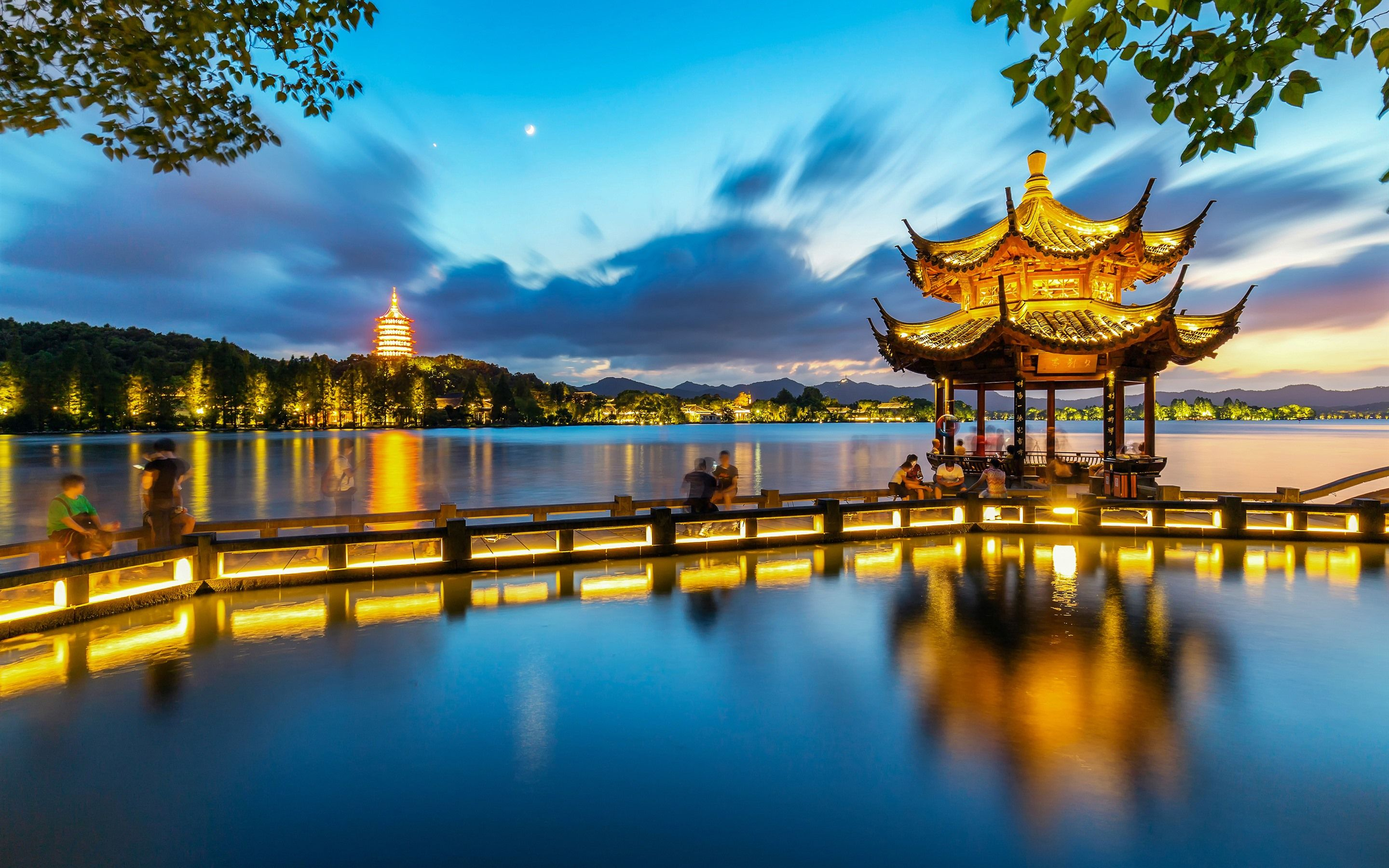
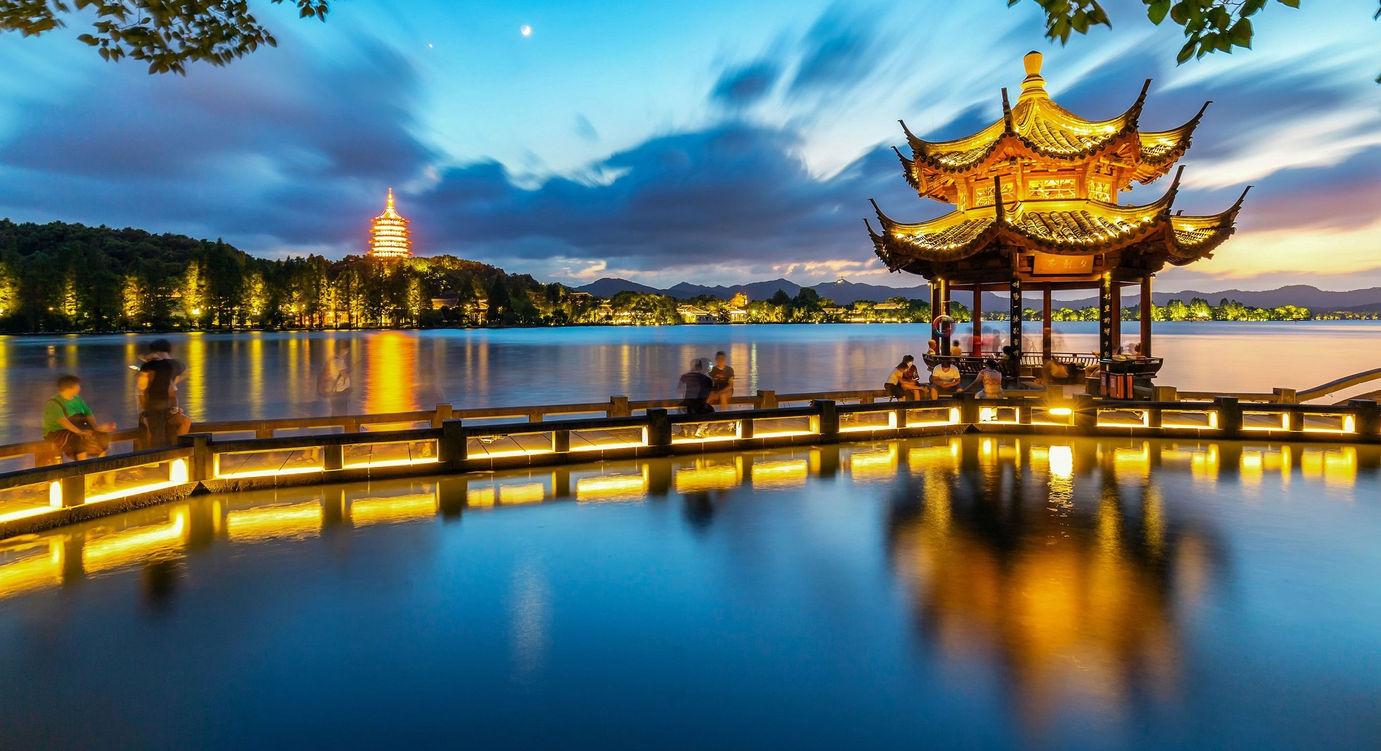
update

diff --git a/src/views/IndexView.vue b/src/views/IndexView.vue
@@ -14,7 +14,6 @@
             <div>
                 <a-image
                         src="/img/1.jpg"
-                        height="500px"
                         :preview="false"
                         :placeholder="true"
                 />
@@ -22,7 +21,6 @@
             <div>
                 <a-image
                         src="/img/2.jpg"
-                        height="500px"
                         :preview="false"
                         :placeholder="true"
                 />
@@ -30,7 +28,6 @@
             <div>
                 <a-image
                         src="/img/3.jpg"
-                        height="500px"
                         :preview="false"
                         :placeholder="true"
                 />
@@ -38,7 +35,6 @@
             <div>
                 <a-image
                         src="/img/4.jpg"
-                        height="500px"
                         :preview="false"
                         :placeholder="true"
                 />
@@ -234,7 +230,7 @@ export default {
 }
 
 .carousel-container .ant-carousel :deep(.slick-slide) {
-    height: 500px;
+    height: calc(500 * 100vw / 1425);
 }
 
 .carousel-container .ant-carousel :deep(.slick-arrow.custom-slick-arrow) {

diff --git a/src/views/NotFoundView.vue b/src/views/NotFoundView.vue
@@ -1,10 +1,19 @@
 <template>
-  404 page not found
+    <a-result status="404" title="404" sub-title="抱歉，你所访问的页面不存在">
+        <template #extra>
+            <a-button type="primary" @click="backHome">回到首页</a-button>
+        </template>
+    </a-result>
 </template>
 
 <script>
 export default {
-    name: "NotFoundView"
+    name: "NotFoundView",
+    methods: {
+        backHome() {
+            this.$router.push('/')
+        }
+    }
 }
 </script>
 
